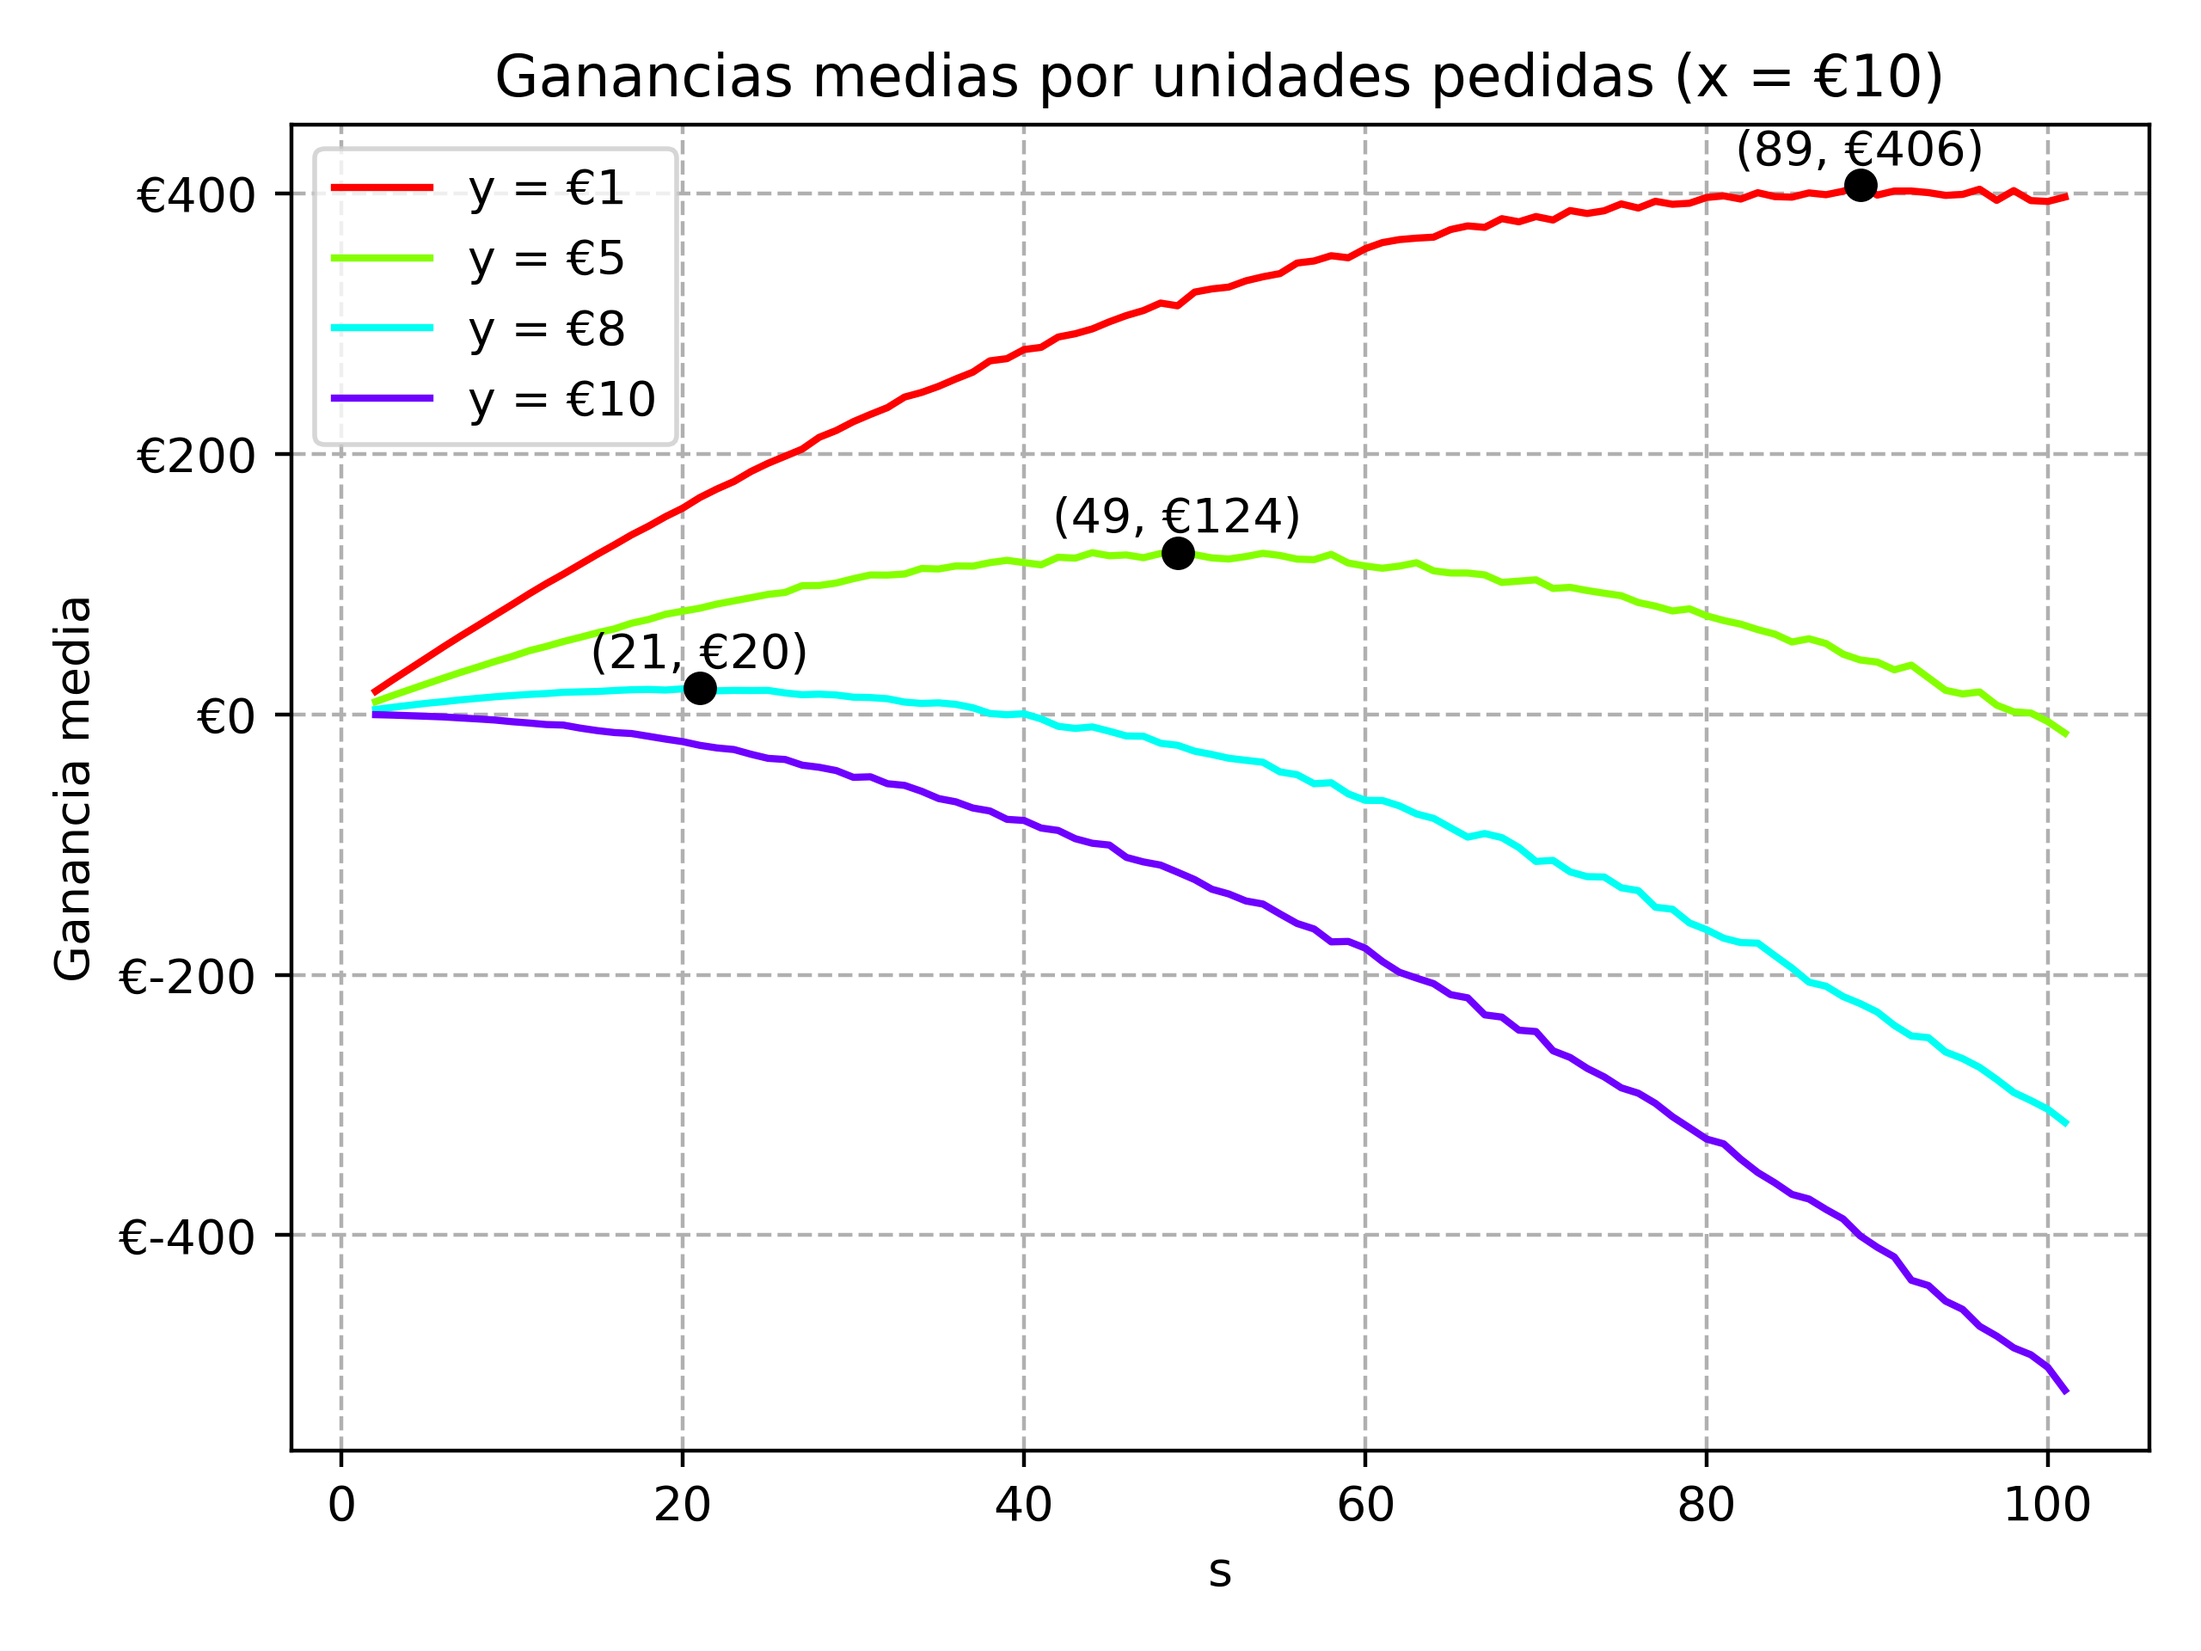
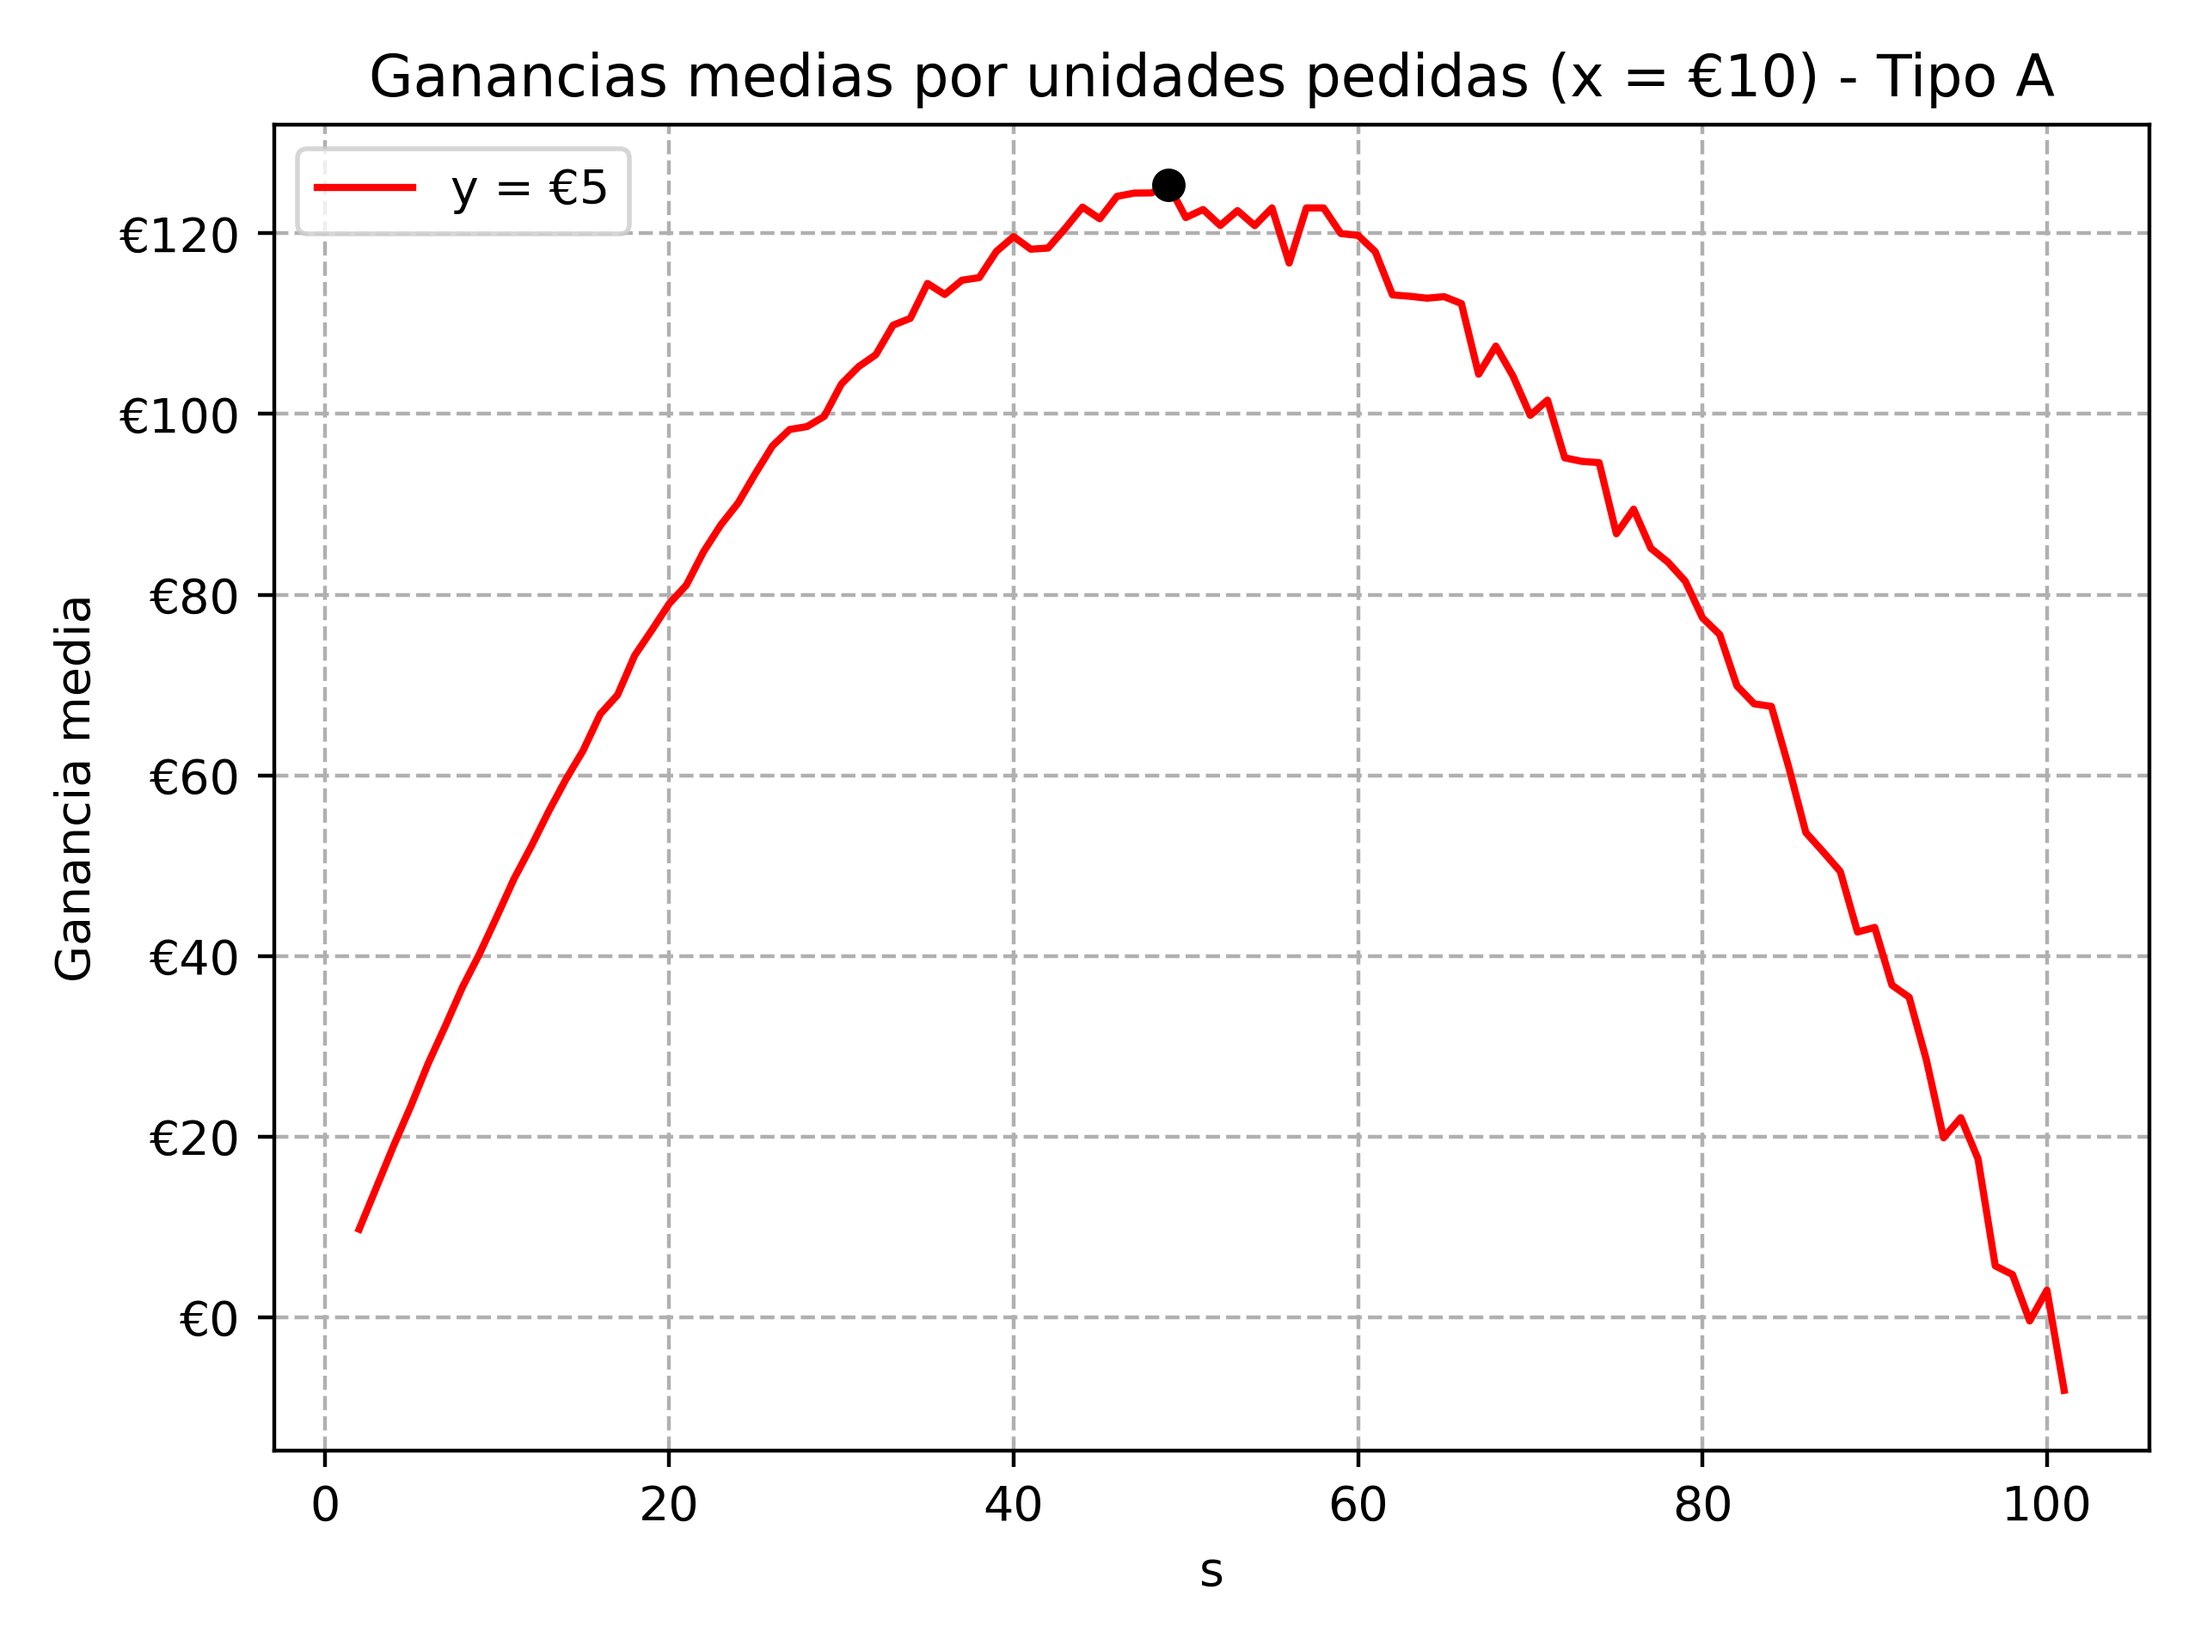
Add refunds

diff --git a/simulator/simulator.py b/simulator/simulator.py
@@ -1,5 +1,5 @@
 from email.base64mime import header_length
-from simulator.simulation import Simulation
+from simulator.simulation import Simulation, SimulationWithRefunds
 import matplotlib.pyplot as plt
 import numpy as np
 from helpers import to_euro, get_cmap
@@ -41,7 +41,7 @@ class Simulator():
         ax.set_xlabel('s')
         ax.set_ylabel('Ganancia media')
         ax.yaxis.set_major_formatter('€{x:1.0f}')
-        ax.legend(loc="upper right")
+        ax.legend(loc="upper left")
         ax.grid(linestyle = '--')
         fig.tight_layout()
 
@@ -78,6 +78,52 @@ class Simulator():
         ax.set_ylabel('Ganancia media')
         ax.yaxis.set_major_formatter('€{x:1.0f}')
         ax.legend(loc="upper right")
+        ax.grid(linestyle = '--')
+        fig.tight_layout()
+
+        if save_image:
+            plt.savefig(f'images/{table}_x={x}.png', dpi=400)
+        
+        if show_graph:
+            plt.show()
+
+    def run_refunds(self, x, y, zs, table='a', iterations=10_000, save_image=False, show_graph=True):
+        """ Runs Simulation with a given list of y (costs)
+
+        Parameters:
+            x (int): Price to sell unit
+            ys ([int]): List of costs for to buy unit
+            z (int): Amount to pay if did not sell all
+            table ({'a', 'b', 'c'}): Distribution table type
+            iterations (int): Number of iterations to run each Simulation
+        """
+        ss = [i + 1 for i in range(1,101)]
+        fig, ax = plt.subplots()
+        color_map = get_cmap(len(zs) + 1)
+
+        for i in range(len(zs)):
+            means = []
+            stddevs = []
+            for s in ss:
+                sim = SimulationWithRefunds(s, x, y, zs[i], iterations, table)
+                means.append(sim.mean)
+                stddevs.append(sim.stddev)
+            ax.plot(ss, means, c=color_map(i), label=f"z = {to_euro(zs[i])}")
+
+            # anotate max profit
+            mean_max = max(means)
+            x_pos = means.index(mean_max)
+            x_max = ss[x_pos]
+            if mean_max >= 0:
+                ax.plot(x_max, mean_max, 'o', color='black')
+                ax.annotate(f'({x_max}, {to_euro(mean_max)})', xy=(x_max, mean_max+16), ha='center')
+
+
+        ax.set_title(f'Ganancias medias por unidades pedidas (x = {to_euro(x)}, y = {to_euro(y)}) - Tipo {table.capitalize()}')
+        ax.set_xlabel('s')
+        ax.set_ylabel('Ganancia media')
+        ax.yaxis.set_major_formatter('€{x:1.0f}')
+        ax.legend(loc="upper left")
         ax.grid(linestyle = '--')
         fig.tight_layout()
 

diff --git a/simulator/simulation.py b/simulator/simulation.py
@@ -56,3 +56,60 @@ class Simulation():
         
         self.mean = mean(profits)
         self.stddev = stdev(profits)
+
+
+class SimulationWithRefunds():
+
+    """ Runs simulation with refunds
+
+    Attributes:
+        mean (float): (class attribute) The profit mean calculated
+        stddev (float): (class attribute) The standard deviation of the profits calculated
+        s (int): Order quantity
+        x (int): Price to sell unit
+        y (int): Cost to buy unit
+        z (int): Amount to pay if did not sell all units
+        iterations (int): How many times to run the simulation
+        table ({'a', 'b', 'c'}): Distribution table type
+    """
+
+    def __init__(self, s, x, y, z, iterations=10_000, table='a'):
+        self.__s = s
+        self.__x = x
+        self.__y = y
+        self.__z = z
+        self.__iterations = iterations
+
+        if table == 'a':
+            self.__table = generate_table_a(100)
+        elif table == 'b':
+            self.__table = generate_table_b(100)
+        else:
+            self.__table = generate_table_c(100)
+
+        self.__run()
+    
+    """ Returns random demand count given a probability lookup table of any size """
+    def __generate_demand(self):
+        u = random.random()
+        for i in range(len(self.__table)):
+            if u < self.__table[i]:
+                return i
+        return len(self.__table) - 1
+    
+    def __calculate_profit(self, demand):
+        total_cost = self.__y * self.__s
+        if demand >= self.__s:
+            return self.__x * self.__s - total_cost
+        return self.__x * demand - self.__y * demand - min(self.__z, self.__y * (self.__s - demand))
+
+    def __run(self):
+        profits = []
+        for _ in range(self.__iterations):
+            demand = self.__generate_demand()
+            profit = self.__calculate_profit(demand)
+
+            profits.append(profit)
+        
+        self.mean = mean(profits)
+        self.stddev = stdev(profits)

diff --git a/main.py b/main.py
@@ -6,7 +6,9 @@ def main():
 
     #simulator.run(5, [1, 5, 8, 10], table='a')
     #simulator.run(8, [1, 5, 8, 10], table='a')
-    simulator.run(10, [1, 5, 8, 10], table='a')
+    #simulator.run(10, [1, 5, 8, 10], table='a')
+    #simulator.run(10, [5], save_image=True)
+    #simulator.run_refunds(10, 5, [0, 10, 100, 1000], table='a', save_image=True)
     #simulator.run(15, [1, 5, 8, 10], table='a')
 
 
